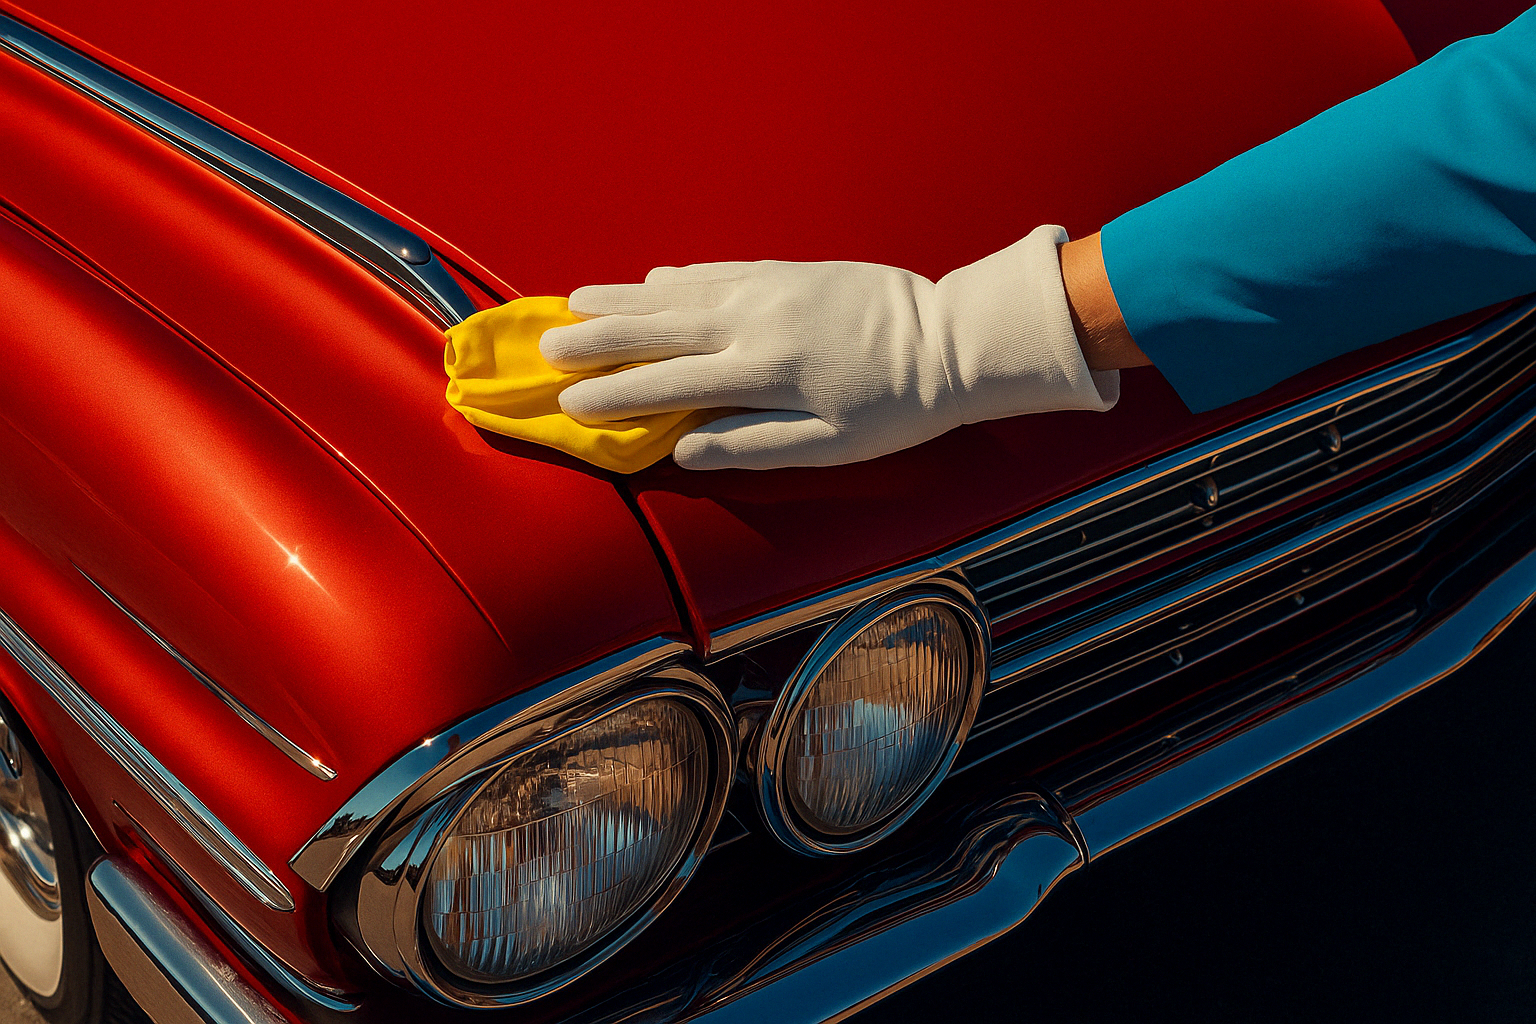
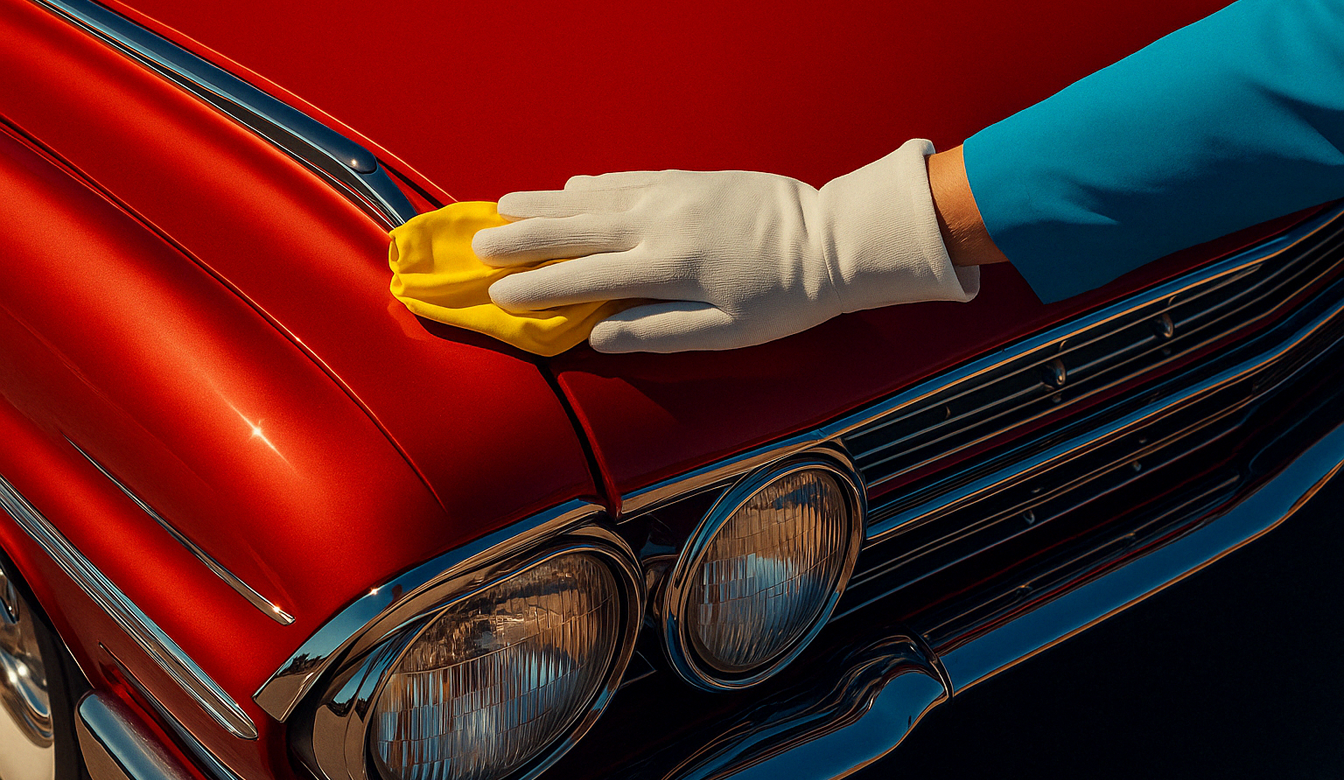
wip formatting

diff --git a/ccnj-com/index.html b/ccnj-com/index.html
@@ -61,6 +61,7 @@
                 <h3 id="giant-logo-text-2">AUTOMOTIVE RESTORATION &amp; CUSTOMIZATION</h3>
             </div>
             <picture id="hero-image">
+                <source media="(min-width: 1670px)" srcset="/ccnj-com/images/home-hero-ultrawide.png">
                 <source media="(min-width: 600px)" srcset="/ccnj-com/images/home-hero-desktop.png">
                 <source media="(max-width: 599px)" srcset="/ccnj-com/images/home-hero-mobile.png">
                 <img src="/ccnj-com/images/home-hero-desktop.png" alt="Hero image">
@@ -73,6 +74,11 @@
         <!-- Model A in beach town -->
         <section class="splash-right">
             <img class="splash-img" src="/ccnj-com/images/home-mobile-2.png" alt="Peeking into a car's interior">
+            <!--<picture>
+                <source media="(min-width: 600px)" srcset="/ccnj-com/images/home-desktop-2.png">
+                <source media="(max-width: 599px)" srcset="/ccnj-com/images/home-mobile-2.png">
+                <img src="/ccnj-com/images/home-desktop-2.png" alt="Ford Model A in a beach town">
+            </picture>-->
             <div class="splash-content">
                 <h1 class="splash-text splash-text-top centered">From <span class="splash-text-emphasis nowrap">tune-ups</span> to <span class="splash-text-emphasis nowrap">custom rides...</span></h1>
                 <h1 class="splash-text splash-text-bottom centered">If you can dream it, <span class="splash-text-emphasis nowrap">we can do it!</span></h1>

diff --git a/ccnj-com/index.css b/ccnj-com/index.css
@@ -450,24 +450,24 @@ h2 {
     }
 
     .splash-left, .splash-right {
-        justify-content: space-between;
+        /*justify-content: space-between;*/
     }
 
     .splash-left {
-        flex-direction: row; /* Image on the left, text on the right */
-        border-radius: 60px 0 0 60px;
+        /*flex-direction: row;*/ /* Image on the left, text on the right */
+        /*border-radius: 60px 0 0 60px;*/
     }
 
     .splash-left img {
-        border-radius: 0 60px 60px 0;
+        /*border-radius: 0 60px 60px 0;*/
     }
 
     .splash-right {
-        flex-direction: row-reverse; /* Text on the left, image on the right */
+        /*flex-direction: row-reverse;*/ /* Text on the left, image on the right */
     }
     
     .splash-right img {
-        border-radius: 60px 0 0 60px;
+        /*border-radius: 60px 0 0 60px;*/
     }
 
     .splash-content {
@@ -526,7 +526,7 @@ h2 {
 @media (min-width: 1100px) {
     
     #hero-image {
-        transform: translateY(clamp(-7em, calc(1600px - 100vw), 0em));
+        /*transform: translateY(clamp(-7em, calc(1600px - 100vw), 0em));*/
     }
 }
 

diff --git a/ccnj-com/style.css b/ccnj-com/style.css
@@ -172,6 +172,8 @@ footer {
     background: #fdfdfd;
     margin: 0 auto;
     /*box-shadow: 0 0px 20px 10px rgba(0, 0, 0, 0.3);*/
+    width: 100%; /* Fit viewport width */
+    height: auto;
 }
 
 /* Menu Button Styling */
